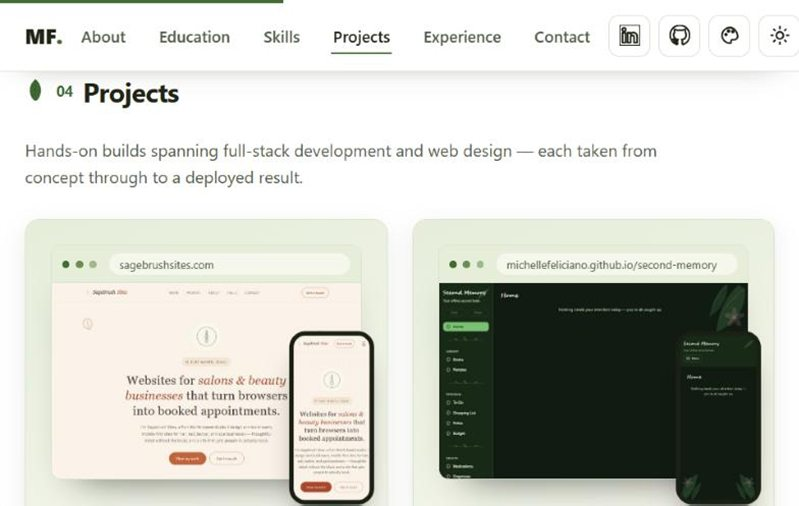
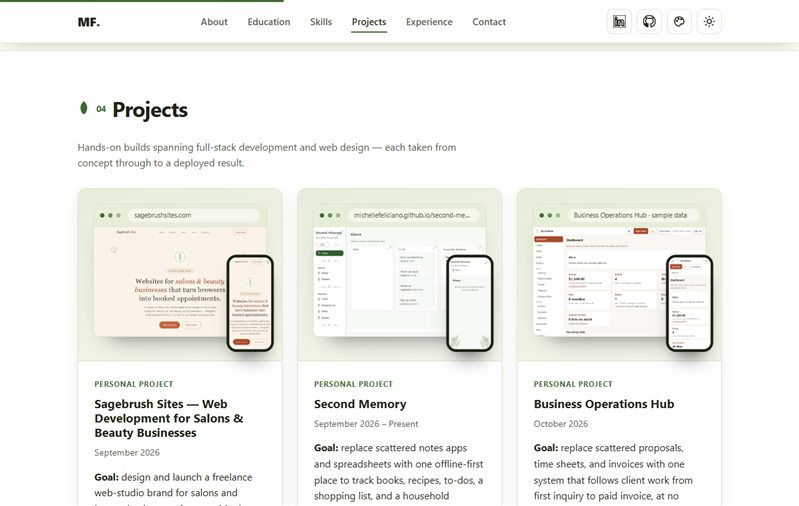
Replace Health Log with the Business Operations Hub; retake portfolio previews
Adds a Business Operations Hub card and case study (sample-data screenshots, verified numbers), removes the Health Log card, case study, and images, and retakes the portfolio mockup frames in the current light theme. Adds SQL and testing to the skills matrix.

diff --git a/projects/business-operations-hub.html b/projects/business-operations-hub.html
@@ -1,0 +1,178 @@
+<!DOCTYPE html>
+<html lang="en">
+<head>
+<meta charset="UTF-8">
+<meta name="viewport" content="width=device-width, initial-scale=1.0">
+<title>Business Operations Hub Case Study — Michelle Feliciano</title>
+<meta name="description" content="Case study: Business Operations Hub, a self-hosted system that follows client work from first inquiry to paid invoice, with role-based access, a client portal, and 551 automated tests.">
+<meta name="color-scheme" content="light dark">
+<meta name="theme-color" content="#3f6b34">
+<link rel="canonical" href="https://michellefeliciano.github.io/projects/business-operations-hub.html">
+
+<meta property="og:type" content="article">
+<meta property="og:url" content="https://michellefeliciano.github.io/projects/business-operations-hub.html">
+<meta property="og:title" content="Business Operations Hub Case Study — Michelle Feliciano">
+<meta property="og:description" content="A self-hosted system for quotes, approvals, projects, time, invoices, and reports, with a client portal and 551 automated tests.">
+<meta property="og:image" content="https://michellefeliciano.github.io/social-preview.png">
+<meta name="twitter:card" content="summary_large_image">
+
+<link rel="icon" href="../favicon.svg" type="image/svg+xml">
+<script>try{var a=localStorage.getItem("portfolio-accent");if(a==="terracotta"||a==="blue")document.documentElement.setAttribute("data-accent",a)}catch(e){}</script>
+<link rel="stylesheet" href="../styles.css">
+<script type="application/ld+json">
+{
+  "@context": "https://schema.org",
+  "@type": "Article",
+  "headline": "Business Operations Hub Case Study",
+  "description": "A self-hosted system for quotes, approvals, projects, time, invoices, and reports, with a client portal and 551 automated tests.",
+  "url": "https://michellefeliciano.github.io/projects/business-operations-hub.html",
+  "inLanguage": "en-US",
+  "author": { "@type": "Person", "name": "Michelle Feliciano", "url": "https://michellefeliciano.github.io/" }
+}
+</script>
+</head>
+<body id="top">
+<a class="skip-link" href="#main">Skip to main content</a>
+
+<header class="site-header">
+  <div class="wrap header-inner">
+    <a class="brand" href="../index.html#top">MF<span class="brand-dot">.</span></a>
+
+    <nav class="site-nav" aria-label="Primary">
+      <ul>
+        <li><a href="../index.html#about">About</a></li>
+        <li><a href="../index.html#education">Education</a></li>
+        <li><a href="../index.html#skills">Skills</a></li>
+        <li><a href="../index.html#projects" class="active">Projects</a></li>
+        <li><a href="../index.html#experience">Experience</a></li>
+        <li><a href="../index.html#contact">Contact</a></li>
+      </ul>
+    </nav>
+
+    <div class="header-actions">
+      <div class="accent-picker">
+        <button id="accent-toggle" class="icon-btn" type="button" aria-expanded="false" aria-controls="accent-menu" aria-label="Choose accent color">
+          <svg class="icon" viewBox="0 0 24 24" aria-hidden="true" focusable="false"><path d="M12 3a9 9 0 1 0 0 18c1.1 0 1.8-.9 1.5-1.9-.3-1 .4-2.1 1.5-2.1H17a4 4 0 0 0 4-4c0-5-4-10-9-10z"/><circle cx="7.5" cy="11" r="1"/><circle cx="10.5" cy="7" r="1"/><circle cx="15.5" cy="7.5" r="1"/></svg>
+        </button>
+        <div id="accent-menu" class="accent-menu" role="group" aria-label="Accent color" hidden>
+          <button type="button" class="accent-swatch" data-accent="green" aria-pressed="true" aria-label="Green"><span style="--sw:#3f6b34"></span></button>
+          <button type="button" class="accent-swatch" data-accent="terracotta" aria-pressed="false" aria-label="Terracotta"><span style="--sw:#a8492b"></span></button>
+          <button type="button" class="accent-swatch" data-accent="blue" aria-pressed="false" aria-label="Blue"><span style="--sw:#2c5f8a"></span></button>
+        </div>
+      </div>
+      <button id="theme-toggle" class="icon-btn" type="button" aria-pressed="false" aria-label="Switch to dark theme">
+        <svg class="icon icon-sun" viewBox="0 0 24 24" aria-hidden="true" focusable="false"><circle cx="12" cy="12" r="4"/><path d="M12 2v2M12 20v2M4.93 4.93l1.41 1.41M17.66 17.66l1.41 1.41M2 12h2M20 12h2M4.93 19.07l1.41-1.41M17.66 6.34l1.41-1.41"/></svg>
+        <svg class="icon icon-moon" viewBox="0 0 24 24" aria-hidden="true" focusable="false"><path d="M21 12.79A9 9 0 1 1 11.21 3a7 7 0 0 0 9.79 9.79Z"/></svg>
+      </button>
+      <button id="nav-toggle" class="icon-btn nav-toggle" type="button" aria-expanded="false" aria-controls="mobile-nav" aria-label="Open menu">
+        <svg class="icon" viewBox="0 0 24 24" aria-hidden="true" focusable="false"><path d="M4 6h16M4 12h16M4 18h16"/></svg>
+      </button>
+    </div>
+  </div>
+
+  <nav id="mobile-nav" class="mobile-nav" aria-label="Mobile" hidden>
+    <ul>
+      <li><a href="../index.html#about">About</a></li>
+      <li><a href="../index.html#education">Education</a></li>
+      <li><a href="../index.html#skills">Skills</a></li>
+      <li><a href="../index.html#projects">Projects</a></li>
+      <li><a href="../index.html#experience">Experience</a></li>
+      <li><a href="../index.html#contact">Contact</a></li>
+    </ul>
+  </nav>
+</header>
+
+<main id="main">
+
+  <section class="section case-hero">
+    <div class="wrap">
+      <nav class="breadcrumb" aria-label="Breadcrumb">
+        <a href="../index.html">Home</a> / <a href="../index.html#projects">Projects</a> / <span aria-current="page">Business Operations Hub</span>
+      </nav>
+      <p class="eyebrow">Case study</p>
+      <h1>Business Operations Hub</h1>
+      <p class="case-lede">A self-hosted business system that follows one piece of client work from the first inquiry to a paid invoice: leads, quotes, client approval, projects, time, expenses, invoices, payments, and reports, with a separate portal for clients.</p>
+
+      <dl class="case-meta">
+        <div><dt>Role</dt><dd>Designer &amp; developer</dd></div>
+        <div><dt>Timeline</dt><dd>October 2026</dd></div>
+        <div><dt>Type</dt><dd>Personal project</dd></div>
+        <div><dt>Stack</dt><dd>TypeScript, React, Hono, PostgreSQL</dd></div>
+        <div><dt>Hosting</dt><dd>Self-hosted, $0 to run</dd></div>
+      </dl>
+
+      <p class="project-links">
+        <a href="https://github.com/MichelleFeliciano/business-operations-hub" target="_blank" rel="noopener noreferrer">View Code on GitHub →</a>
+      </p>
+    </div>
+  </section>
+
+  <section class="section section-alt">
+    <div class="wrap">
+      <figure class="case-figure">
+        <img src="../images/business-operations-hub.jpg" width="799" height="506" alt="The Business Operations Hub dashboard: a sidebar of sections, and cards showing revenue received, an outstanding balance, time tracked this week, open quotes, and low-stock items." loading="lazy">
+        <figcaption>The dashboard running on made-up sample data (the clients, projects, and invoices are fictional): revenue received, what is still outstanding, time tracked this week, and open quotes at a glance.</figcaption>
+      </figure>
+    </div>
+  </section>
+
+  <section class="section">
+    <div class="wrap case-body">
+      <h2>The goal</h2>
+      <p>I run a small web design studio, Sagebrush Sites, and the paperwork around client work was scattered: a proposal here, a time sheet there, an invoice in a separate tool. I had already built three small tools for pieces of it (a proposal generator, a time tracker and invoicer, and a website audit tool). This project merges them into one system so a piece of work can be followed from the first inquiry to the final payment, and so the whole business can run at no recurring cost.</p>
+
+      <h2>What I built</h2>
+      <ul>
+        <li><strong>Quote to cash.</strong> Leads and intake, scoping and pricing, quotes and proposals, client approval by link, projects and tasks, time tracking, expenses, invoices, partial payments, and change orders, all connected so each step feeds the next.</li>
+        <li><strong>A client portal.</strong> Clients sign in to see only their own quotes, invoices, and documents. Every portal query is filtered by the signed-in client, and automated tests confirm one client can never see another's records.</li>
+        <li><strong>Reports and exports.</strong> Revenue, profitability, expense, time, and inventory reports; CSV exports of ten datasets; branded PDFs; and a full backup file that carries checksums and is verified before a restore writes anything.</li>
+        <li><strong>Website audits.</strong> An audit engine with seven modules (technical, SEO, performance, mobile, accessibility, security, and local-business data) that reports "unable to test" rather than guessing.</li>
+        <li><strong>Everything around the work.</strong> Documents with expiring share links, inventory, assets, and vendors, a calendar, an activity log, and role-based access for owners, admins, employees, contractors, and clients.</li>
+      </ul>
+      <p>In numbers: about 10,000 lines of TypeScript for the server, about 6,500 for the interface, 19 database migrations, and 233 API routes, with documentation covering the architecture, API, security model, backups, and deployment.</p>
+
+      <h2>Decisions that mattered</h2>
+      <ul>
+        <li><strong>Money is never a decimal.</strong> Amounts are stored as whole cents, quantities as thousandths, and rates as basis points, and all of the arithmetic lives in one small, unit-tested module, so totals cannot drift by a fraction of a cent.</li>
+        <li><strong>Permissions are enforced on the server.</strong> The interface hides what a person should not use, but the server decides what they can read or change. A record someone may not see answers "not found," and the final review called all 233 routes as each role to check it.</li>
+        <li><strong>Approvals work as evidence.</strong> A sent quote cannot be edited, an approval link shows exactly one version, and each decision stores a fingerprint of the exact content that was approved, so a later change is detectable.</li>
+        <li><strong>Money-handling code is built for two things happening at once.</strong> Sending an invoice and recording a payment run under database row locks, payments are append-only (a mistake is voided with a reason, not erased), and a unique index allows only one live invoice per quote.</li>
+        <li><strong>Zero-cost by design.</strong> One SQL dialect, PostgreSQL, runs embedded for local use or on any hosted Postgres. Email and other paid services are optional, and the app works fully without them.</li>
+        <li><strong>Review, then regression tests.</strong> Four structured review passes (after milestones 5, 8, 11, and 14) are written up in the repository's QA report. Each finding was reproduced, fixed, and given its own test, including authorization leaks in activity feeds and race conditions around invoices.</li>
+      </ul>
+
+      <h2>What shipped</h2>
+      <p>All 14 planned milestones are complete, and the project's 551 automated tests across 31 test files pass. The code is public on GitHub. Because it is a self-hosted application with its own server and database, there is no public live demo, so the screenshots here use made-up sample data. It is an operations tool, not accounting, tax, or payroll software, and the documentation says so.</p>
+
+      <h2>Skills this project shows</h2>
+      <ul>
+        <li>Relational data modeling in SQL: migrations, constraints, indexes, and transactions</li>
+        <li>Turning a business process (quote to cash) into a connected system</li>
+        <li>Role-based access control and keeping one customer's data separate from another's</li>
+        <li>Automated testing, including tests written to reproduce bugs before fixing them</li>
+        <li>Reporting, data export, backup and restore, and writing documentation for other people</li>
+      </ul>
+    </div>
+  </section>
+
+  <section class="section section-alt">
+    <div class="wrap">
+      <nav class="case-nav" aria-label="More case studies">
+        <a href="second-memory.html"><small>Previous case study</small>← Second Memory</a>
+        <a class="case-next" href="../index.html#projects"><small>Back to</small>All projects →</a>
+      </nav>
+    </div>
+  </section>
+
+</main>
+
+<footer class="site-footer">
+  <div class="wrap footer-inner">
+    <p>&copy; <span id="year"></span> Michelle Feliciano. Built with plain HTML, CSS, and JavaScript — no external dependencies. Lighthouse audit, October 2026: 100 for performance, accessibility, best practices, and SEO.</p>
+    <a class="back-to-top" href="#top">Back to top ↑</a>
+  </div>
+</footer>
+
+<script src="../script.js"></script>
+</body>
+</html>

diff --git a/index.html b/index.html
@@ -155,7 +155,7 @@
         <a class="btn btn-primary" href="#projects">View Projects</a>
         <a class="btn btn-ghost" href="#contact">Get in Touch</a>
       </div>
-      <p class="hero-now"><span class="now-dot" aria-hidden="true"></span><span><strong>Now:</strong> open to entry-level roles in Texas (on-site, hybrid, or remote) &middot; building <a href="projects/second-memory.html">Second Memory</a> and <a href="projects/health-log.html">Health Log</a> <span class="now-date">&middot; updated October 2026</span></span></p>
+      <p class="hero-now"><span class="now-dot" aria-hidden="true"></span><span><strong>Now:</strong> open to entry-level roles in Texas (on-site, hybrid, or remote) &middot; building <a href="projects/second-memory.html">Second Memory</a> and the <a href="projects/business-operations-hub.html">Business Operations Hub</a> <span class="now-date">&middot; updated October 2026</span></span></p>
       <ul class="glance" aria-label="At a glance">
         <li><strong>B.S.</strong><span>Business Computer Information Systems, University of North Texas, 2025</span></li>
         <li><strong data-count="4">4</strong><span>Live projects, all public on GitHub</span></li>
@@ -335,26 +335,25 @@
             <a href="https://github.com/MichelleFeliciano/second-memory" target="_blank" rel="noopener noreferrer">View Code on GitHub →</a>
           </p>
         </article>
-        <article class="project-card" data-short="Health Log" data-skills="html css javascript pwa storage data security deployment">
+        <article class="project-card" data-short="Operations Hub" data-skills="javascript sql data security testing accessibility">
           <div class="device-stage" data-tilt>
             <div class="device-rig">
-              <div class="browser" data-frames="images/frame-health-log-2.jpg,images/frame-health-log-3.jpg">
-                <div class="browser-bar" aria-hidden="true"><i></i><i></i><i></i><span>michellefeliciano.github.io/health-tracker</span></div>
-                <img src="images/health-log.jpg" width="799" height="506" alt="Health Log’s Today screen on a desktop: a daily check-in with 0 to 10 rating buttons and a tab bar for Today, History, Trends, Patterns, and Settings." loading="lazy">
+              <div class="browser" data-frames="images/frame-business-operations-hub-2.jpg,images/frame-business-operations-hub-3.jpg">
+                <div class="browser-bar" aria-hidden="true"><i></i><i></i><i></i><span>Business Operations Hub · sample data</span></div>
+                <img src="images/business-operations-hub.jpg" width="799" height="506" alt="The Business Operations Hub dashboard: a sidebar of sections, and cards showing revenue received, an outstanding balance, time tracked this week, open quotes, and low-stock items." loading="lazy">
               </div>
-              <div class="phone"><img src="images/phone-health-log.jpg" width="260" height="563" alt="" loading="lazy"></div>
+              <div class="phone"><img src="images/phone-business-operations-hub.jpg" width="260" height="563" alt="" loading="lazy"></div>
             </div>
           </div>
           <p class="project-tag">Personal project</p>
-          <h3>Health Log</h3>
-          <p class="project-date">September 2026 – Present</p>
-          <p><strong>Goal:</strong> a daily wellness log I can trust with sensitive data — private by design, working offline, and able to pull in my Apple Health history.</p>
-          <p><strong>What I built:</strong> a five-screen tracker whose Content Security Policy blocks all network requests, an in-browser Apple Health importer that reads large zip exports in small slices, caffeine tracking, backup and restore, and pattern cards that stay cautious until there is enough data.</p>
-          <p><strong>Stack:</strong> HTML, CSS, JavaScript, IndexedDB, Web Workers. Installable as a PWA; works fully offline.</p>
+          <h3>Business Operations Hub</h3>
+          <p class="project-date">October 2026</p>
+          <p><strong>Goal:</strong> replace scattered proposals, time sheets, and invoices with one system that follows client work from first inquiry to paid invoice, at no recurring cost.</p>
+          <p><strong>What I built:</strong> a self-hosted business system covering leads, quotes and client approval, projects, time, expenses, invoices and payments, reports and exports, and a client portal, with role-based access, 19 database migrations, and 551 automated tests.</p>
+          <p><strong>Stack:</strong> TypeScript, React, Hono, PostgreSQL. Screenshots show made-up sample data.</p>
           <p class="project-links">
-            <a class="case-link" href="projects/health-log.html">Read Case Study →</a>
-            <a href="https://michellefeliciano.github.io/health-tracker/" target="_blank" rel="noopener noreferrer">View Live Site →</a>
-            <a href="https://github.com/MichelleFeliciano/health-tracker" target="_blank" rel="noopener noreferrer">View Code on GitHub →</a>
+            <a class="case-link" href="projects/business-operations-hub.html">Read Case Study →</a>
+            <a href="https://github.com/MichelleFeliciano/business-operations-hub" target="_blank" rel="noopener noreferrer">View Code on GitHub →</a>
           </p>
         </article>
         <article class="project-card" data-short="Portfolio" data-skills="html css javascript responsive accessibility deployment">

diff --git a/projects/second-memory.html b/projects/second-memory.html
@@ -157,7 +157,7 @@
     <div class="wrap">
       <nav class="case-nav" aria-label="More case studies">
         <a href="sagebrush-sites.html"><small>Previous case study</small>← Sagebrush Sites</a>
-        <a class="case-next" href="health-log.html"><small>Next case study</small>Health Log →</a>
+        <a class="case-next" href="business-operations-hub.html"><small>Next case study</small>Business Operations Hub →</a>
       </nav>
     </div>
   </section>

diff --git a/script.js b/script.js
@@ -676,6 +676,8 @@
     ["storage", "Browser storage and IndexedDB"],
     ["data", "Data modeling and analysis"],
     ["python", "Python"],
+    ["sql", "SQL and relational databases"],
+    ["testing", "Automated testing"],
     ["security", "Privacy and security"],
     ["deployment", "Deployment (GitHub Pages)"]
   ];
